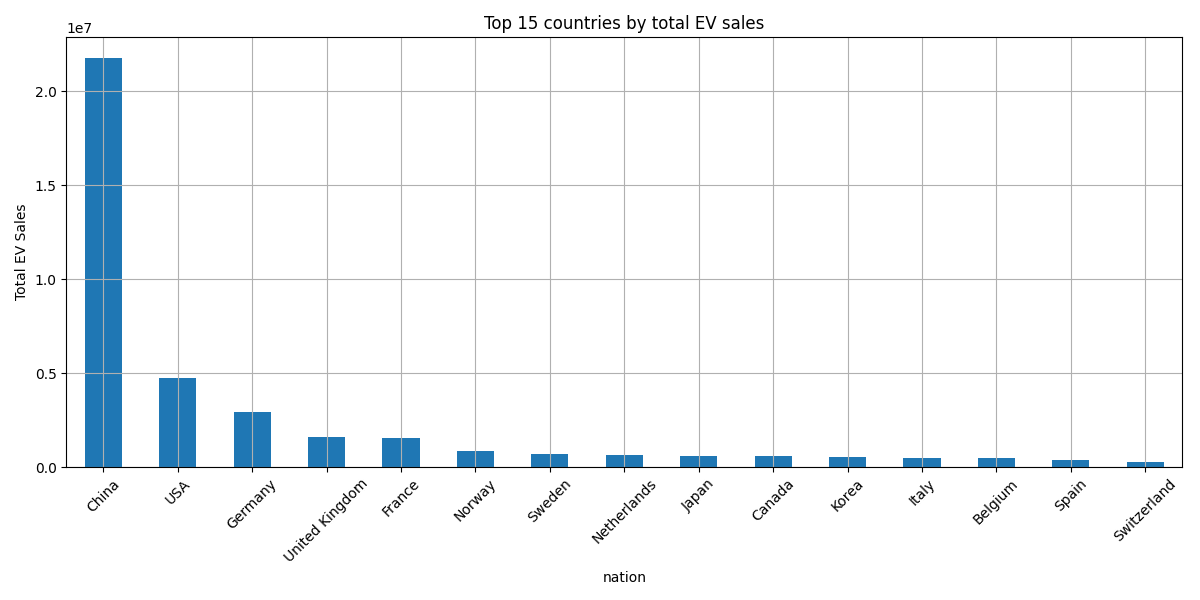
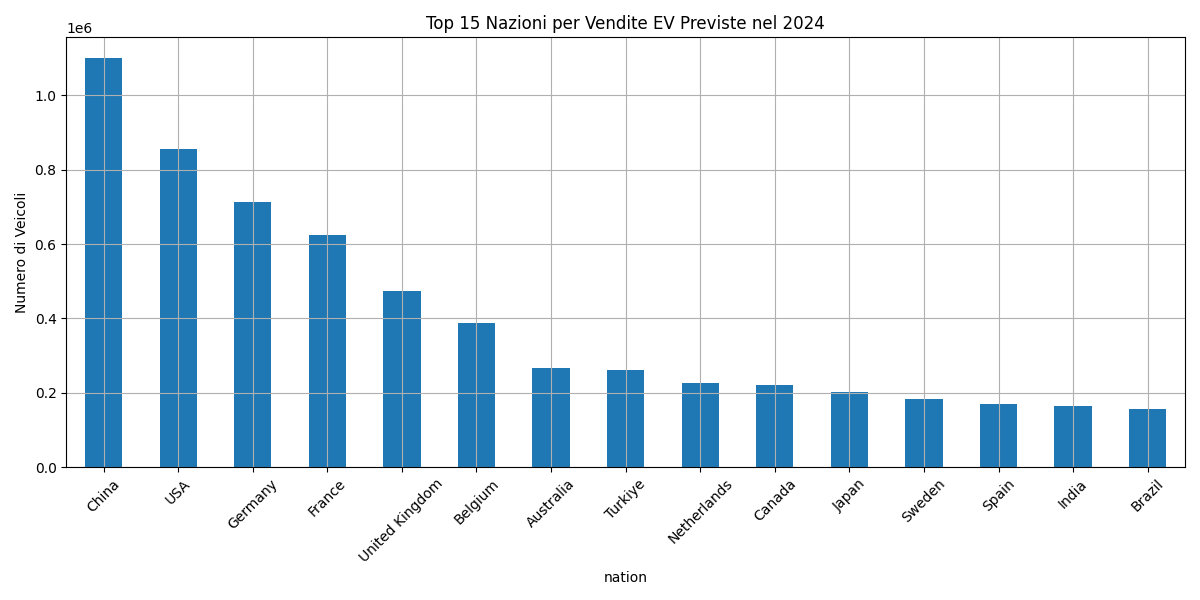
fine 18/06

diff --git a/src/regression_upgraded.py b/src/regression_upgraded.py
@@ -10,6 +10,10 @@ from sklearn.metrics import (mean_absolute_error, r2_score, root_mean_squared_er
 from xgboost import XGBRegressor
 from scipy.stats.mstats import winsorize
 import joblib
+import sys
+import os
+sys.path.append(os.path.abspath(os.path.join(os.path.dirname(__file__), '..')))
+
 from dataset import load_dataset_nations
 
 # === Load and feature engineering ===
@@ -104,7 +108,8 @@ plt.title("True vs Predicted EV Sales (Extended Model)")
 plt.plot([0, y_true_final.max()], [0, y_true_final.max()], '--r')
 plt.grid(True)
 plt.tight_layout()
-plt.show()
+plt.savefig("plots/true_vs_predicted_sales_Extended Model.png")
+plt.close()
 
 # === Feature importance ===
 importances = model.regressor_.feature_importances_
@@ -114,7 +119,8 @@ plt.figure()
 pd.Series(importances, index=features).sort_values(ascending=False).head(10).plot(kind='barh', title='Top Feature Importance')
 plt.grid(True)
 plt.tight_layout()
-plt.show()
+plt.savefig("plots/feature_importance_last.png")
+plt.close()
 
 
 # Salvataggio dei modelli e dei trasformatori

diff --git a/src/regression_outliers.py b/src/regression_outliers.py
@@ -8,6 +8,9 @@ from sklearn.compose import TransformedTargetRegressor
 from sklearn.metrics import mean_absolute_error, r2_score, root_mean_squared_error
 from xgboost import XGBRegressor
 from scipy.stats.mstats import winsorize
+import os
+import sys
+sys.path.append(os.path.abspath(os.path.join(os.path.dirname(__file__), '..')))
 from dataset import load_dataset_nations
 
 # === Caricamento dati ===
@@ -87,7 +90,8 @@ plt.title("True vs Predicted EV Sales (Outliers Winsorized)")
 plt.plot([0, y_true_final.max()], [0, y_true_final.max()], '--r')
 plt.grid(True)
 plt.tight_layout()
-plt.show()
+plt.savefig("plots/true_vs_predicted_sales_Outliers_Winsorized.png")
+plt.close()
 
 # === Feature importance ===
 importances = model.regressor_.feature_importances_
@@ -97,4 +101,5 @@ plt.figure()
 pd.Series(importances, index=features).sort_values(ascending=False).head(10).plot(kind='barh', title='Top Feature Importance')
 plt.grid(True)
 plt.tight_layout()
-plt.show()
+plt.savefig("plots/feature_importance_outliers.png")
+plt.close()

diff --git a/src/regression_advanced.py b/src/regression_advanced.py
@@ -7,6 +7,9 @@ from sklearn.preprocessing import OneHotEncoder
 from sklearn.compose import TransformedTargetRegressor
 from sklearn.metrics import mean_squared_error, r2_score, mean_absolute_error, root_mean_squared_error
 from xgboost import XGBRegressor
+import os
+import sys
+sys.path.append(os.path.abspath(os.path.join(os.path.dirname(__file__), '..')))
 from dataset import load_dataset_nations
 
 # === STEP 1: Carica e aggiungi feature ===
@@ -74,7 +77,8 @@ plt.title("True vs Predicted EV Sales")
 plt.plot([0, y_test.max()], [0, y_test.max()], '--r')
 plt.grid(True)
 plt.tight_layout()
-plt.show()
+plt.savefig("plots/true_vs_predicted_sales_First.png")
+plt.close()
 
 # Feature importance
 importances = model.regressor_.feature_importances_
@@ -84,4 +88,5 @@ plt.figure()
 pd.Series(importances, index=features).sort_values(ascending=False).head(10).plot(kind='barh', title='Top Feature Importance')
 plt.grid(True)
 plt.tight_layout()
-plt.show()
+plt.savefig("plots/feature_importance_first.png")
+plt.close()

diff --git a/src/batch_predict_ev_sales.py b/src/batch_predict_ev_sales.py
@@ -3,6 +3,9 @@ import pandas as pd
 import numpy as np
 import joblib
 from predict_ev_sales import preprocess_new_data
+import os
+import sys
+sys.path.append(os.path.abspath(os.path.join(os.path.dirname(__file__), '..')))
 from dataset import load_dataset_nations
 
 # === Caricamento modelli salvati ===
@@ -37,6 +40,6 @@ df_2024["predicted_sales"] = np.expm1(y_pred).round().astype(int)
 # === Salvataggio
 df_2024[["nation", "powertrain", "year", "sales_last_year", "growth_rate", "predicted_sales"]]\
     .sort_values("predicted_sales", ascending=False)\
-    .to_csv("EV_sales_predictions_2024.csv", index=False)
+    .to_csv("data/EV_sales_predictions_2024.csv", index=False)
 
 print("✅ Previsioni 2024 generate con base 2023. File salvato: EV_sales_predictions_2024.csv")

diff --git a/src/visualizza_previsioni.py b/src/visualizza_previsioni.py
@@ -2,7 +2,7 @@ import pandas as pd
 import matplotlib.pyplot as plt
 
 # === Carica il file locale
-csv_path = "EV_sales_predictions_2024.csv"
+csv_path = "data/EV_sales_predictions_2024.csv"
 df = pd.read_csv(csv_path)
 
 # === Tabella ordinata per vendite EV previste
@@ -19,4 +19,6 @@ plt.ylabel("Numero di Veicoli")
 plt.xticks(rotation=45)
 plt.grid(True)
 plt.tight_layout()
-plt.show()
+plt.savefig("plots/Top_15_Countries_by_total_EV_Sales.png")
+plt.close()
+

diff --git a/README.md b/README.md
@@ -8,20 +8,15 @@ Questo progetto mira a prevedere le vendite di veicoli elettrici (EV) per nazion
 
 ```
 ml-electric-car-sales/
-├── data/                  # Dataset e output delle predizioni
-│   └── EV_sales_predictions_2024.csv
-│
-├── models/                # Modelli e scaler salvati
-│   ├── encoder.pkl
-│   ├── scaler.pkl
-│   └── xgb_model.pkl
+├── models/                # Modelli salvati (.gitkeep presente)
 │
 ├── notebooks/             # Notebook e script EDA
 │   ├── EDA.py
-│   └── EDA_CHAT.py
+│   └── EDA_2.py
 │
 ├── src/                   # Codice sorgente
-│   ├── dataset.py
+│   ├── preprocessing.py
+│   ├── model_training.py
 │   ├── regression_models.py
 │   ├── regression_outliers.py
 │   ├── regression_advanced.py
@@ -32,6 +27,7 @@ ml-electric-car-sales/
 │
 ├── plots/                 # Grafici
 │
+├── dataset.py             # load e manipolazione dataset
 ├── main.py                # Script principale di orchestrazione
 ├── requirements.txt       # Dipendenze
 └── .gitignore
